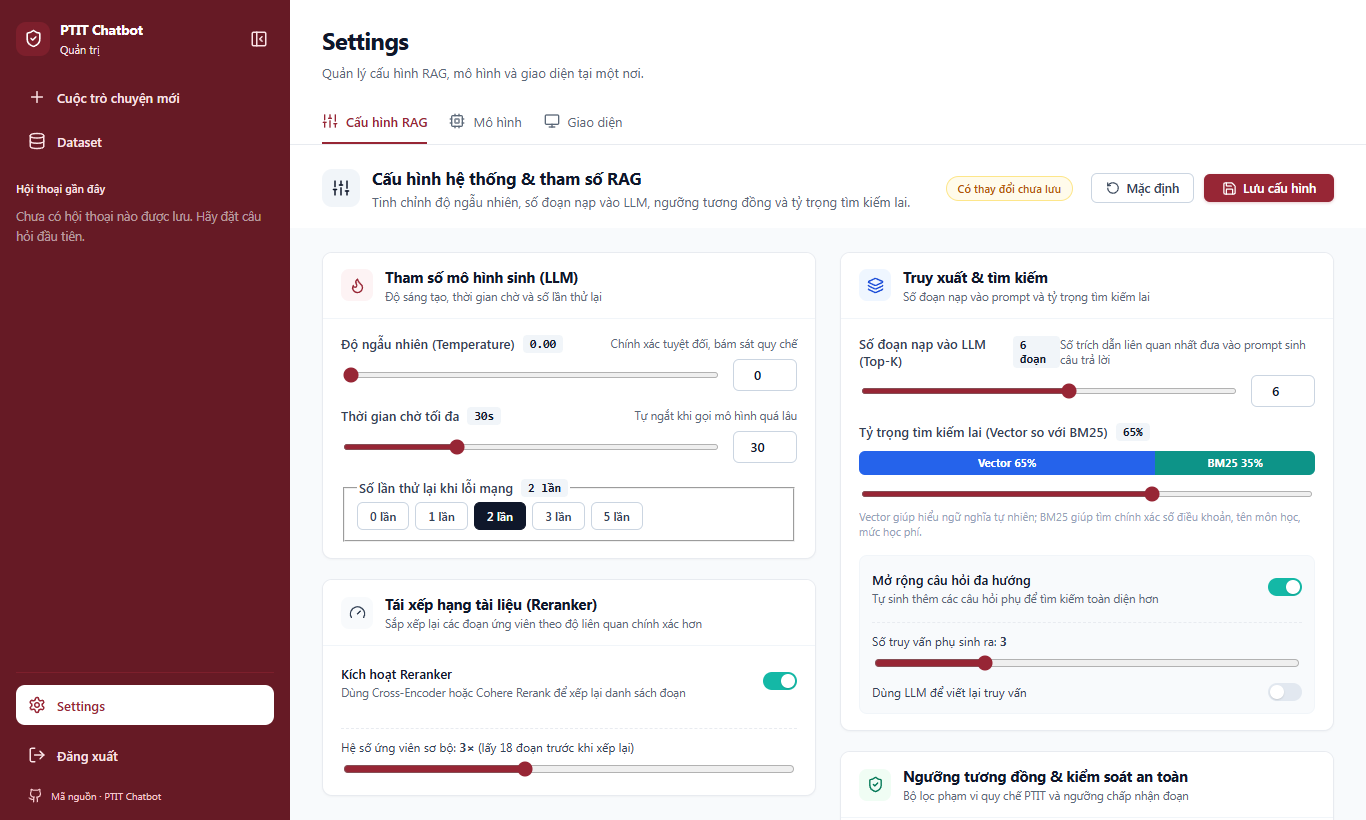
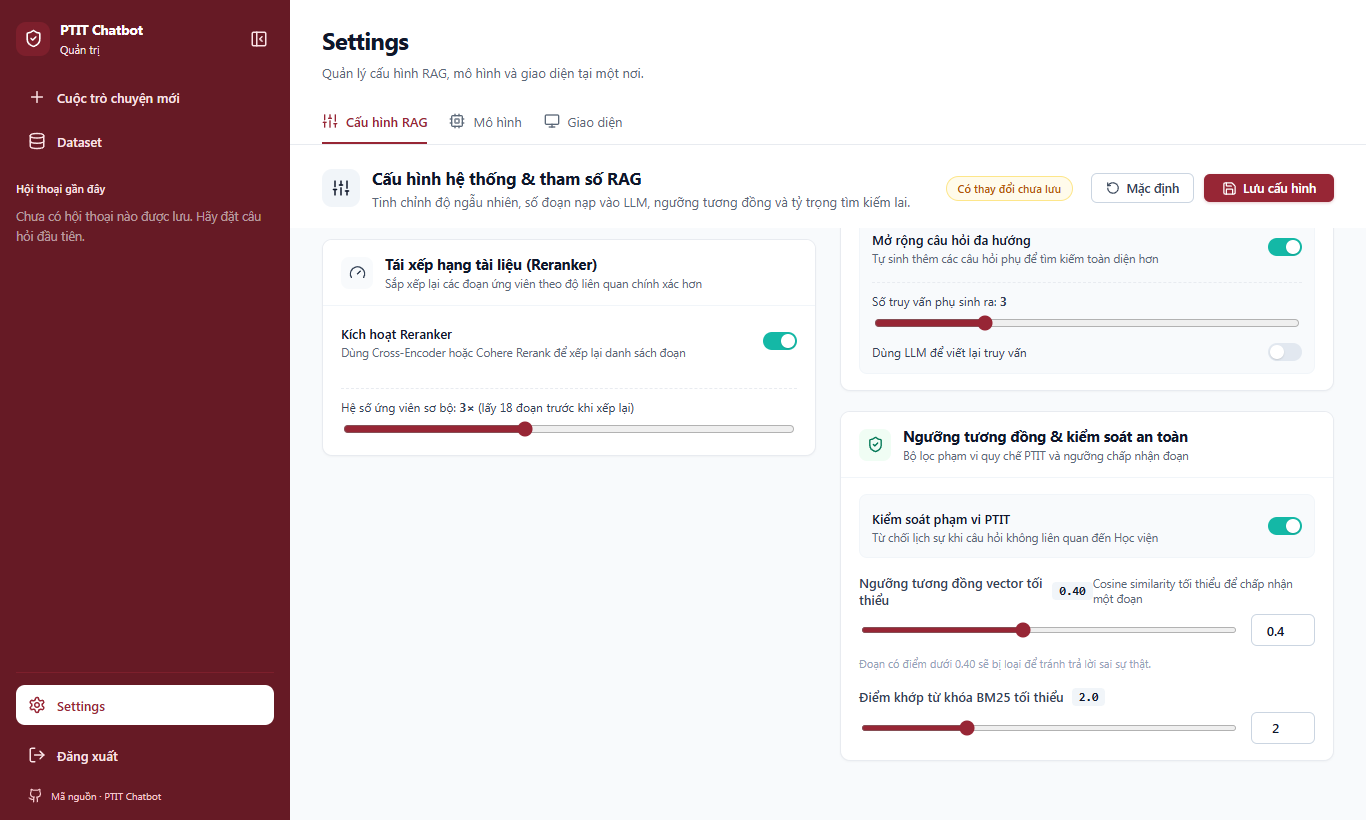
chore: recapture before screenshots of the threshold group

diff --git a/.agents/tasks/2026-11-15-settings-gate-savebar/verification.md b/.agents/tasks/2026-11-15-settings-gate-savebar/verification.md
@@ -78,13 +78,20 @@
   giao diện),
   1366×820 và 390×844, sáng và tối, có 2 thay đổi chưa lưu (Top-K 4→6, ngưỡng cosine 0.37→0.40):
   `docs/design/assets/settings-gate-savebar/{before,after}-{desktop,mobile}-{light,dark}-top.png`, cùng các ảnh
-  `*-gate.png` (cuộn tới nhóm ngưỡng) và `after-*-bottom.png` (vùng nguy hiểm).
+  `*-gate.png` (cuộn tới nhóm ngưỡng; hai ảnh `before-*-gate.png` chụp lại ngày `2026-11-17`, xem mục dưới) và
+  `after-*-bottom.png` (vùng nguy hiểm).
 - Trạng thái: `passed`.
 
 ## Lỗi, kiểm tra lại và phần chưa xác minh
 
 - Lần chụp đầu, hai dev server (trước/sau) dùng chung `node_modules/.vite` qua junction nên trang "sau" lỗi
   "Invalid hook call"; chạy lại từng server riêng với `--force` thì bình thường. Không phải lỗi sản phẩm.
+- `2026-11-17T20:05:35+07:00` — kiểm lại bằng chứng ảnh: `before-desktop-light-gate.png` và
+  `before-mobile-dark-gate.png` trùng byte với ảnh `-top` tương ứng (lần chụp đầu không cuộn tới nhóm ngưỡng trên giao
+  diện cũ), nên ảnh "trước" của nhóm ngưỡng thực chất chưa có. Chụp lại hai ảnh này từ `dev` `a57e4b7` (worktree tạm,
+  một dev server, cùng 2 thay đổi Top-K 4→6, cosine 0.37→0.40, cuộn tới thẻ "Ngưỡng tương đồng & kiểm soát an toàn");
+  ảnh mới hiện thanh "Điểm khớp từ khóa BM25 tối thiểu" và câu "Đoạn có điểm dưới 0.40 sẽ bị loại…" của bản cũ.
+  Sau khi chụp lại, 16 ảnh có 16 mã băm khác nhau. Mã nguồn không đổi.
 - Self-review phát hiện R-05 (ô số rỗng khi đang gõ xoá ghi đè) → sửa ở `415afe3`, thêm ca test, chạy lại
   `ConfigView.gate.test.jsx`/`cache`/`configDraft` (30/30) và toàn bộ `npm test` (303/303), `npm run build`.
 - Chưa kiểm với backend thật + Postgres (chỉ SQLite tạm trong test và API giả lập trong ảnh).

diff --git a/.agents/tasks/2026-11-15-settings-gate-savebar/task.md b/.agents/tasks/2026-11-15-settings-gate-savebar/task.md
@@ -5,7 +5,7 @@
 - Coordinator: `claude-agent`
 - Người yêu cầu: người dùng ("tạo task cải thiện đi", sau tài liệu nghiên cứu màn Cài đặt)
 - Tạo lúc: `2026-11-15T23:42:56+07:00`
-- Cập nhật lúc: `2026-11-16T00:06:27+07:00`
+- Cập nhật lúc: `2026-11-17T20:05:35+07:00`
 
 ## Yêu cầu và kết quả mong muốn
 
@@ -111,3 +111,5 @@ làm ở task này).
   dùng; trạng thái `ready`. Coi yêu cầu "tạo task cải thiện" là trả lời Q-01 (làm giai đoạn 1).
 - `2026-11-16T00:06:27+07:00` — `claude-agent`: triển khai xong, chuyển `in_review` (chờ push/PR). Hợp đồng `/config` bổ sung 3 trường tuỳ
   chọn trong `guardrails` (quyết định D-1, `implementation.md`).
+- `2026-11-17T20:05:35+07:00` — `claude-agent`: chụp lại hai ảnh `before-*-gate.png` bị trùng với ảnh `-top` (bằng
+  chứng AC-07, xem `verification.md`); mã nguồn không đổi, review vẫn hiệu lực. Vẫn `in_review`, chờ push/PR.
